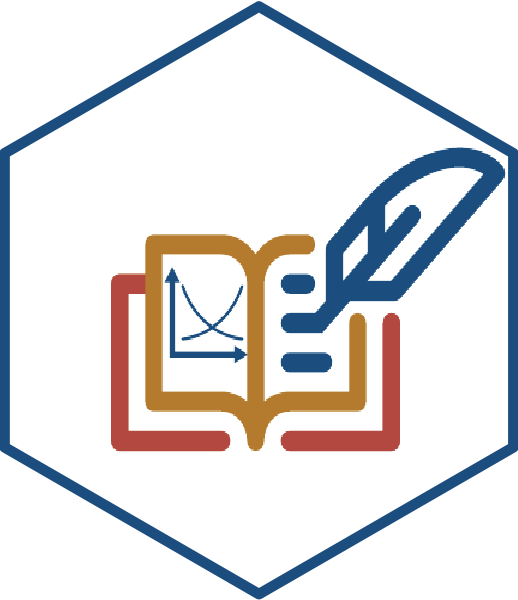
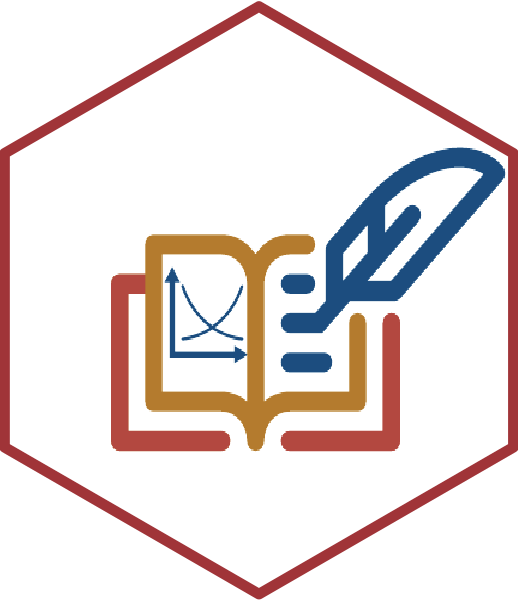
Recolor thought sticker to red

Changed region(s): [[0.0, 0.0, 1.0, 1.0]]

diff --git a/README.md b/README.md
@@ -168,7 +168,7 @@ package](https://github.com/mitchelloharawild/hexwall).
     -   [Quill and Book by Andreas
         Wilkström](https://thenounproject.com/icon/220016/)
 -   **Main Color**:
-    <span class="color-preview" style="background-color: #236192"></span><code>#236192</code>
+    <span class="color-preview" style="background-color: #b14848"></span><code>#b14848</code>
 
 ## Econometrics
 
